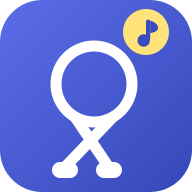
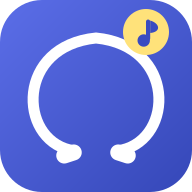
아이콘을 손잡이에서 로프가 감겨 올라가는 형태로 재작업
이전 시안(원형 루프 + 교차선)이 줄넘기로 잘 안 읽힌다는 피드백을 받아,
사용자가 참고로 보내준 이미지처럼 두 손잡이에서 로프가 하나로 이어져
위로 감겨 올라가는 형태로 다시 그렸다. 손잡이를 바깥쪽으로 살짝 기울여
실제로 쥐고 있는 듯한 느낌을 살림. 64px 크기에서도 형태가 잘 보이는지
확인 후 반영.

Changed region(s): [[0.125, 0.1562, 0.875, 0.9375]]

diff --git a/sw.js b/sw.js
@@ -1,7 +1,7 @@
 // 기본 오프라인 캐싱: 앱 셸(HTML/manifest/아이콘)만 캐시하고,
 // Firebase 등 외부 API 요청은 항상 네트워크로 보내 실시간 동기화를 방해하지 않는다.
 // same-origin 요청은 "네트워크 우선, 실패 시 캐시" 전략으로 최신 버전을 우선한다.
-const CACHE_NAME = "jumprope-score-v4";
+const CACHE_NAME = "jumprope-score-v5";
 const APP_SHELL = [
   "./",
   "./index.html",
